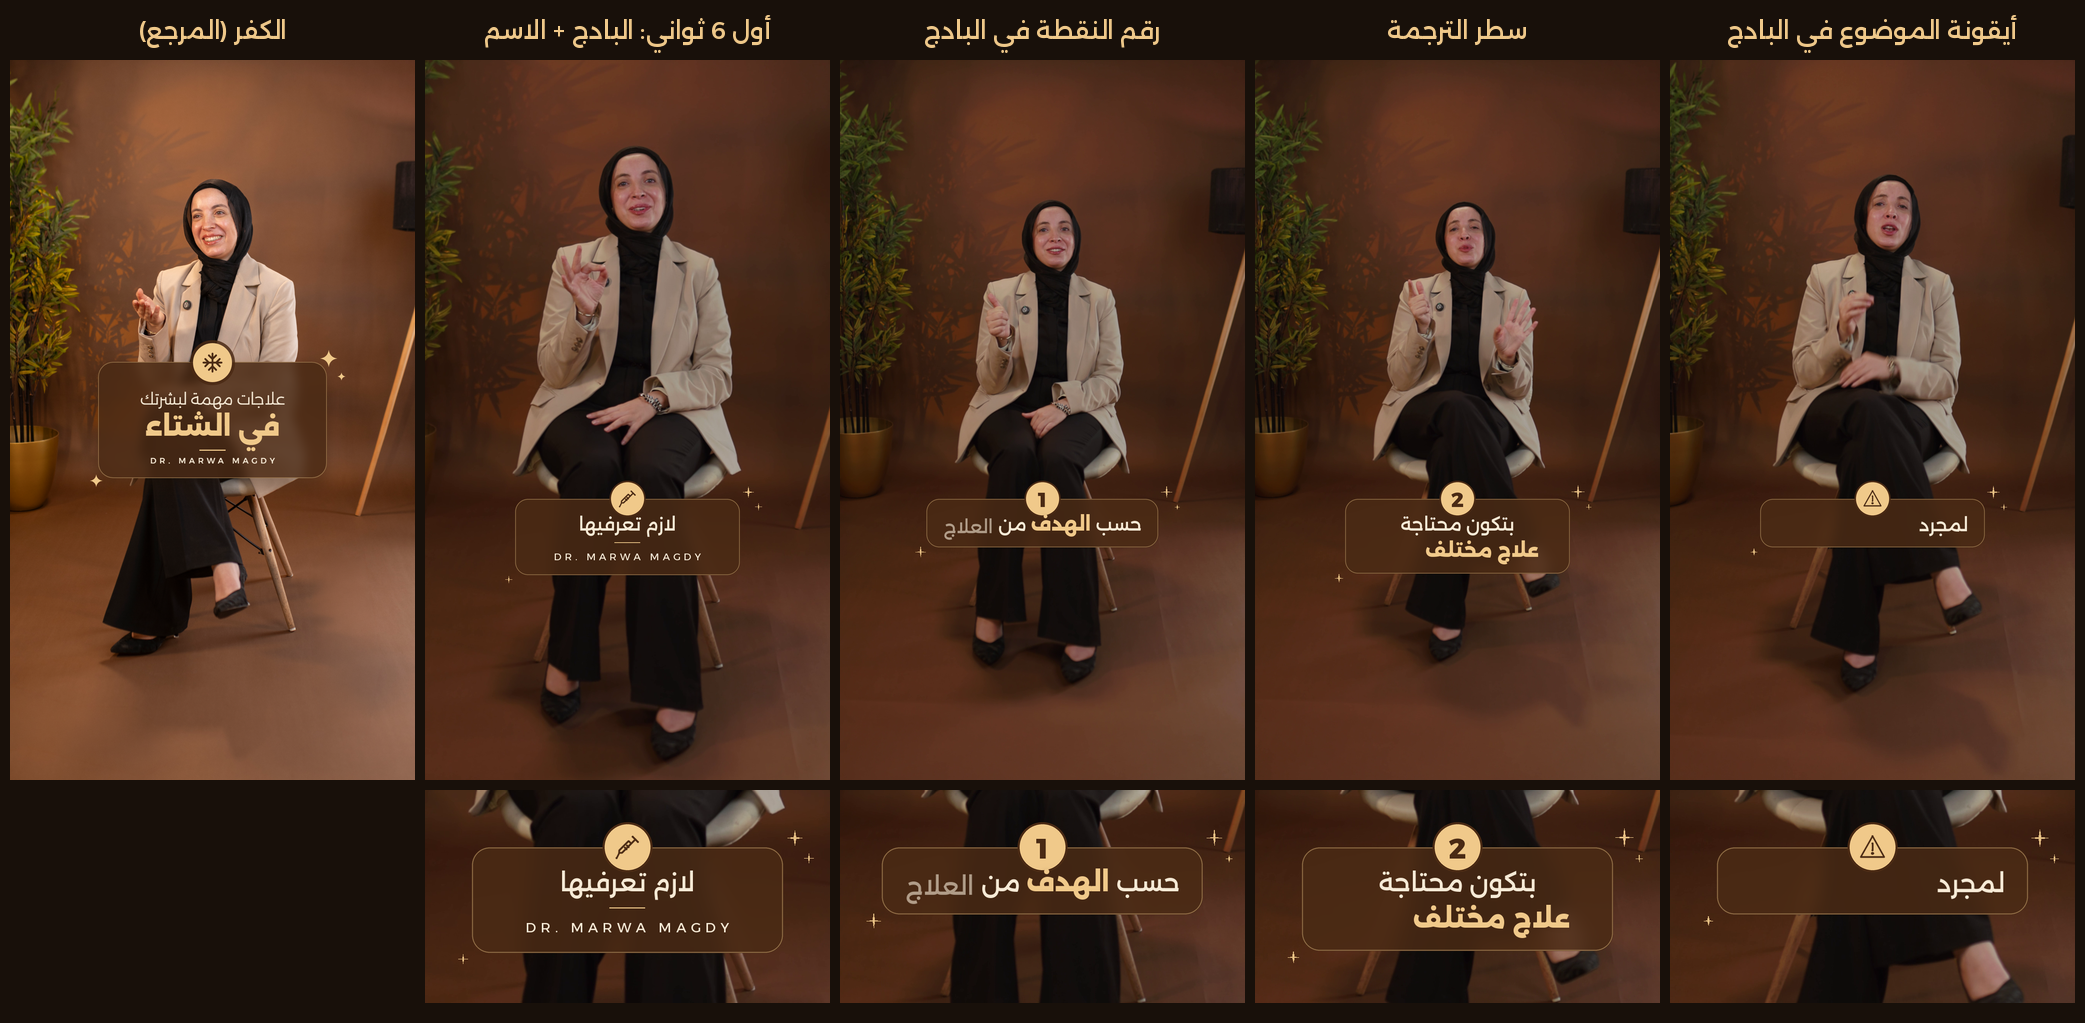
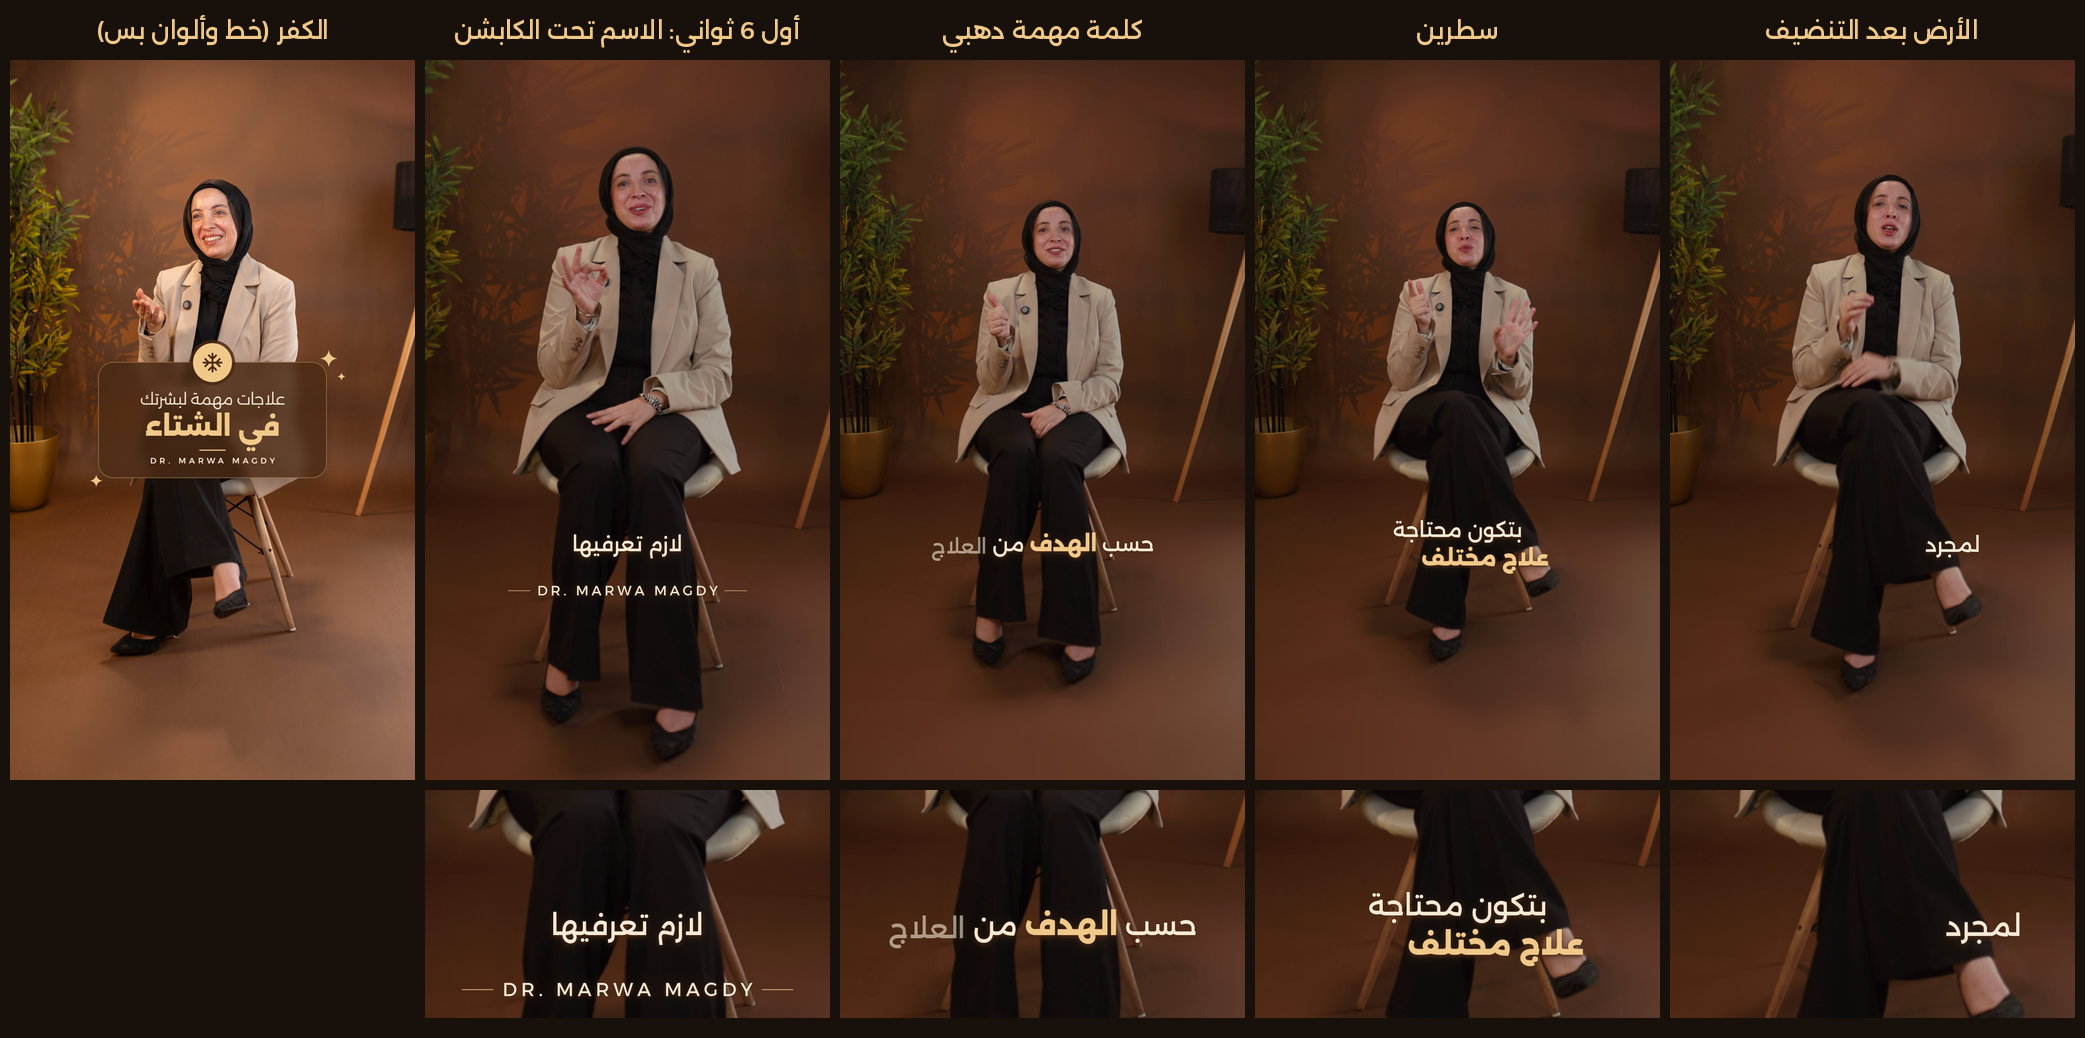
Folder 2 caption style in the approved caption system (Alexandria, folder colours, no block) + floor crease cleanup
Claude-Session: https://claude.ai/code/session_01B2gFniZ6mm2ycwJxgsrrV1

diff --git a/.claude/skills/marwa-brown-close/scripts/render.py b/.claude/skills/marwa-brown-close/scripts/render.py
@@ -4,6 +4,7 @@ import os, sys
 S=os.environ.get("WORK") or sys.exit("set WORK=<work dir with src/vid.mp4, words.json, config.py>")
 sys.path.insert(0,S); sys.path.insert(0,os.path.dirname(os.path.abspath(__file__)))
 import config as CFG
+from floorfix import clean_floor
 from plan import *
 os.makedirs(f"{S}/prev",exist_ok=True)
 OUT=sys.argv[1]; PREVIEW=sys.argv[2] if len(sys.argv)>2 else None
@@ -346,7 +347,7 @@ class Reader:
 R=Reader(); R2=Reader()
 # ---------------- end name
 def name_layer(size=36,track=0.22,line_len=60,y=1415):
-    SS=3; f=ImageFont.truetype(FM,size*SS); name="DR. MARWA MAGDY"
+    SS=3; f=ImageFont.truetype(f"{S}/fonts/{CFG.NAME_FONT}" if hasattr(CFG,"NAME_FONT") else FM,size*SS); name="DR. MARWA MAGDY"
     adv=[f.getlength(c) for c in name]; tr=size*SS*track; nw=sum(adv)+tr*(len(name)-1)
     gap=18*SS; ih=size*SS; iw=ih*0.55
     L=Image.new("RGBA",(WD*SS,160*SS),(0,0,0,0)); d=ImageDraw.Draw(L)
@@ -391,6 +392,7 @@ frames=range(NF) if not PREVIEW else [int(float(x)*FPS) for x in PREVIEW.split("
 for fk in frames:
     t=fk/FPS; ts=out2src(t+0.5/FPS); fi=min(int(ts*SFPS),SNF-1)
     z=zoom(t); fr=R.get(fi)
+    if getattr(CFG,'CLEAN_FLOOR',False): fr=clean_floor(fr,getattr(CFG,'FLOOR_Y',1000))   # smooth creases in the backdrop paper on the floor
     for c,h in XF.items():
         if c-h<=t<c+h:
             if getattr(CFG,'OVERLAY_ONLY',False):  # edited video: hold the first/last frame of the other shot

diff --git a/.claude/skills/marwa-brown-close/scripts/floorfix.py b/.claude/skills/marwa-brown-close/scripts/floorfix.py
@@ -1,0 +1,22 @@
+import numpy as np
+from PIL import Image, ImageFilter
+def clean_floor(fr, y0=1000):
+    """smooth low-contrast creases in the brown backdrop floor; leave legs, shoes, chair (strong edges / non-floor colours) alone"""
+    H,W,_=fr.shape; reg=fr[y0:].astype(np.float32)
+    im=Image.fromarray(fr[y0:])
+    small=im.resize((W//6,(H-y0)//6),Image.BILINEAR)
+    blur=np.asarray(small.filter(ImageFilter.GaussianBlur(5)).resize((W,H-y0),Image.BICUBIC),np.float32)
+    g=np.asarray(im.convert("L").filter(ImageFilter.GaussianBlur(1.2)),np.float32)
+    gx=np.abs(np.diff(g,axis=1,prepend=g[:,:1])); gy=np.abs(np.diff(g,axis=0,prepend=g[:1]))
+    edge=np.asarray(Image.fromarray(((gx+gy)>6).astype(np.uint8)*255).filter(ImageFilter.MaxFilter(15)).filter(ImageFilter.GaussianBlur(6)),np.float32)/255
+    # floor-like colour: close to the local smooth colour and not dark (legs) / not bright (skin, chair seat)
+    diff=np.abs(reg-blur).sum(2)
+    lum=reg.mean(2)
+    floorish=np.clip(1-(diff-10)/18,0,1)*np.clip((lum-35)/20,0,1)*np.clip((160-lum)/25,0,1)
+    m=np.clip(floorish*(1-edge),0,1)[...,None]
+    out=fr.copy(); out[y0:]=(reg*(1-m)+blur*m).clip(0,255).astype(np.uint8)
+    return out
+if __name__=="__main__":
+    import sys
+    a=np.asarray(Image.open(sys.argv[1]).convert("RGB")); b=clean_floor(a)
+    Image.fromarray(b).save(sys.argv[2])

diff --git a/CLAUDE.md b/CLAUDE.md
@@ -2,6 +2,10 @@
 
 > **الشغل الحالي**: 18 ريل د. مروة — البريف الكامل في `briefs/marwa_18_reels_brief.md`. اقراه قبل أي خطوة ومتنساهوش.
 
+> **الكفر بتاع كل فولدر**: خد منه الخط والألوان وإحساس الكلام بس — متنسخش تصميم الثامبنيل (بلوك/بادج/اسم جوه بلوك) في الفيديو. الكابشن دايمًا بطريقة الكابشن المعتمدة (كلمة بكلمة، أيقونات عايمة، الاسم تحت الكابشن) بخط وألوان الفولدر.
+> **مع كل فولدر جديد**: ابعت لصابر صور لشكل الكابشن الأول قبل ما تعمل الفيديوهات.
+> **تنضيف الخلفية**: لو فيه تكسير/تنيات في ورق الخلفية على الأرض شيلها (`CLEAN_FLOOR=True`).
+
 > **أولوية**: الاتفاقات اللي في الملف ده (اللي صابر وصلها بالتجربة) أولى من أي ملف "تعليمات" عام في فولدرات الدرايف أو أي بريف متكرر. لو فيه تعارض، امشي على الملف ده وقول لصابر على التعارض — متطبقش حاجة اترفضت قبل كده (هالة/جريدينت، دخلة/هوك، اسم في الآخر، شيل المؤثرات، motion blur…).
 
 - كلّم صابر بالعربي (عامية مصري).
